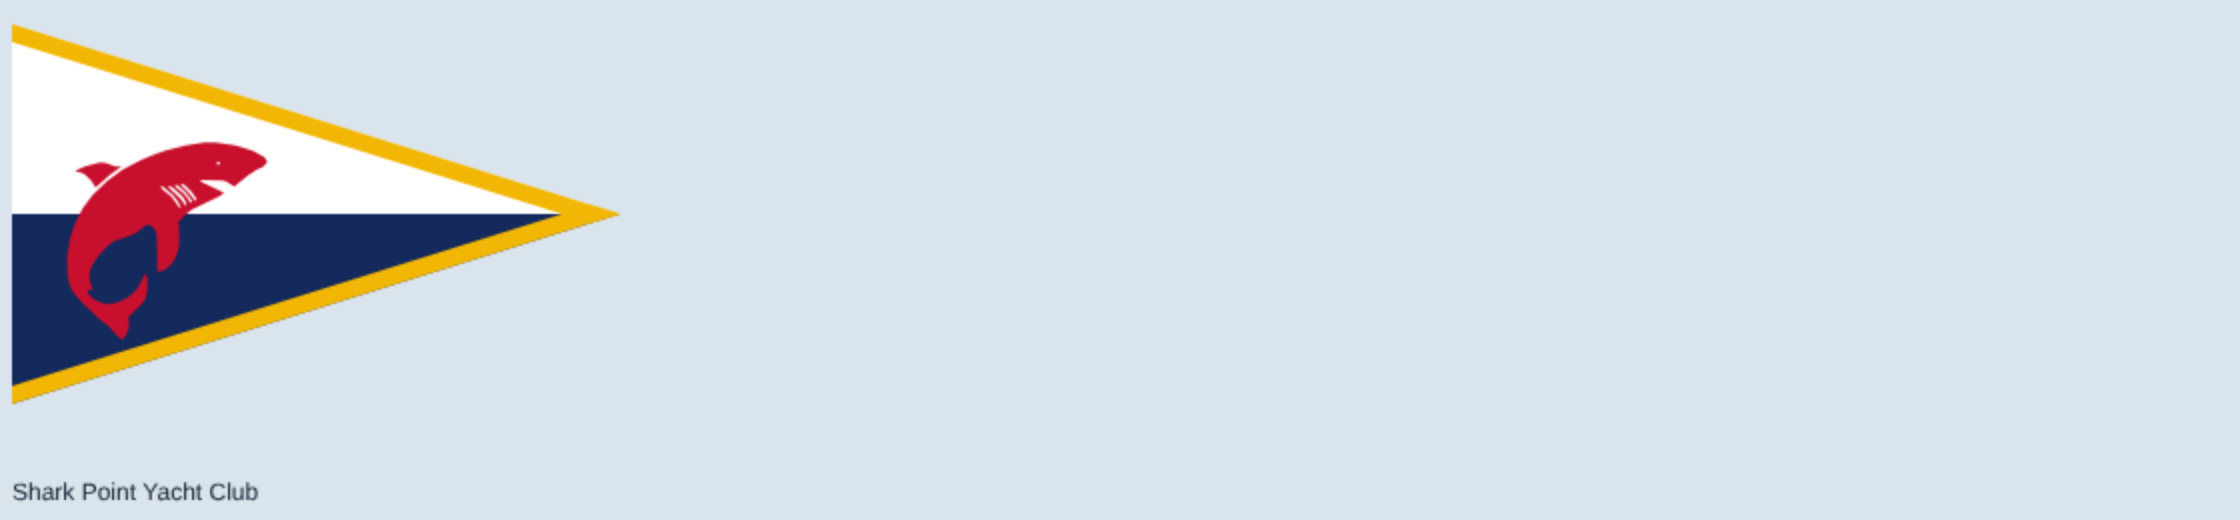
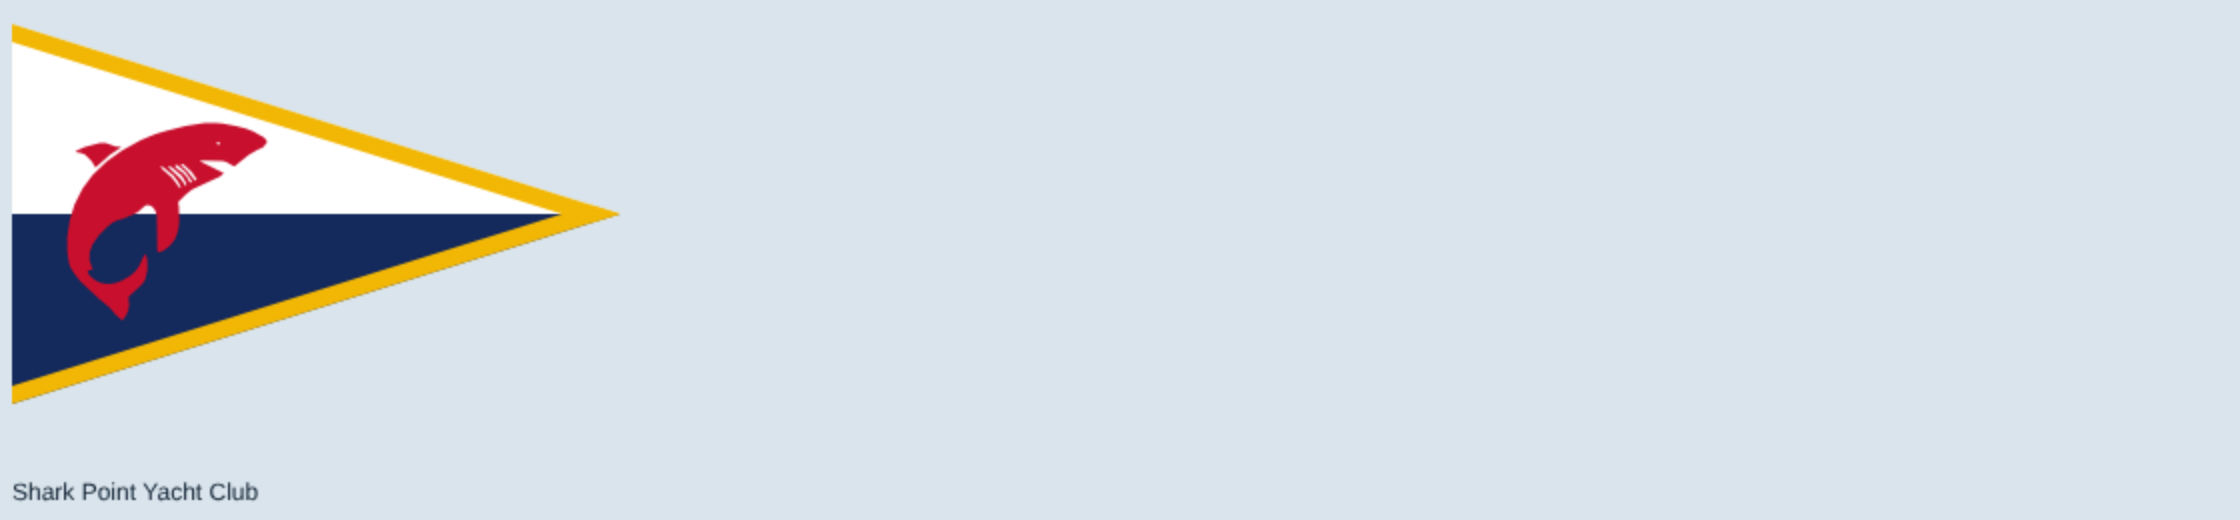
Burgees: Shark Point, shark nudged back up
Claude-Session: https://claude.ai/code/session_012Uu5QjYRsEpBxuz7xgHWhs

Changed region(s): [[0.0312, 0.2154, 0.125, 0.6462]]

diff --git a/src/render/burgeeArt.ts b/src/render/burgeeArt.ts
@@ -141,7 +141,7 @@ export const PARODY_BURGEES: Burgee[] = [
   { id: 'tyc', shape: 'pennant', ratio: 1.6, // Shark Point (to flag for IP review: the layout is the real club's, the shark the Town of Tiburon seal's): white above, navy below, a gold line along the top and bottom edges, one red shark across the center line at the hoist
     draw: (g, W, H) => { fill(g, W, H, WHITE); rect(g, '#14295c', 0, H * 0.5, W, H * 0.5);
       g.strokeStyle = '#f2b705'; g.lineWidth = H * 0.09; for (const y of [0, H]) { g.beginPath(); g.moveTo(0, y); g.lineTo(W, H / 2); g.stroke(); } // gold along the top and bottom edges
-      shark(g, W * 0.255, H * 0.52 + H * 0.052, H * 0.52, '#c8102e'); } },
+      shark(g, W * 0.255, H * 0.52, H * 0.52, '#c8102e'); } },
   { id: 'pyc', shape: 'pennant', ratio: 1.5, // modern-formal: navy, gold, a red band; one horseshoe, symmetrical
     draw: (g, W, H) => { fill(g, W, H, NAVY); rect(g, RED, W * 0.58, 0, W * 0.42, H); const x = W * 0.25, y = H * 0.42, r = H * 0.15; stroke(g, GOLD, H * 0.1, [x - r, y - H * 0.14], [x - r, y]); stroke(g, GOLD, H * 0.1, [x + r, y - H * 0.14], [x + r, y]); arc(g, GOLD, H * 0.1, x, y, r, 0, Math.PI); } },
   { id: 'ssyc', shape: 'pennant', ratio: 1.5, // artsy: cream, teal and willow green; one drooping branch
